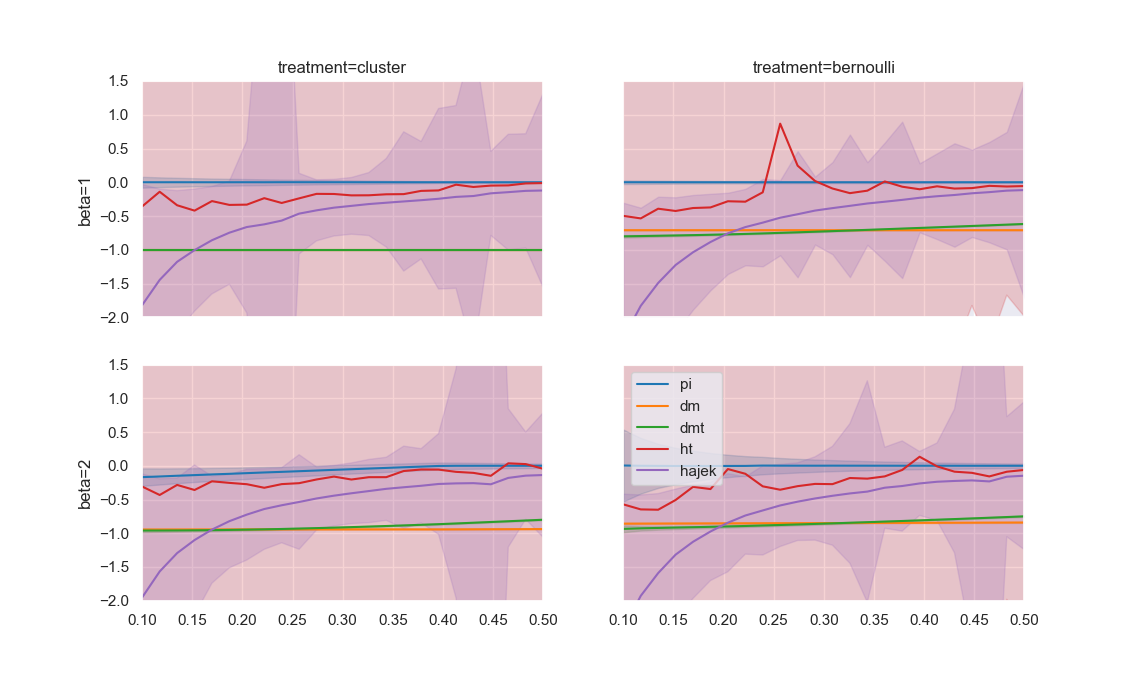
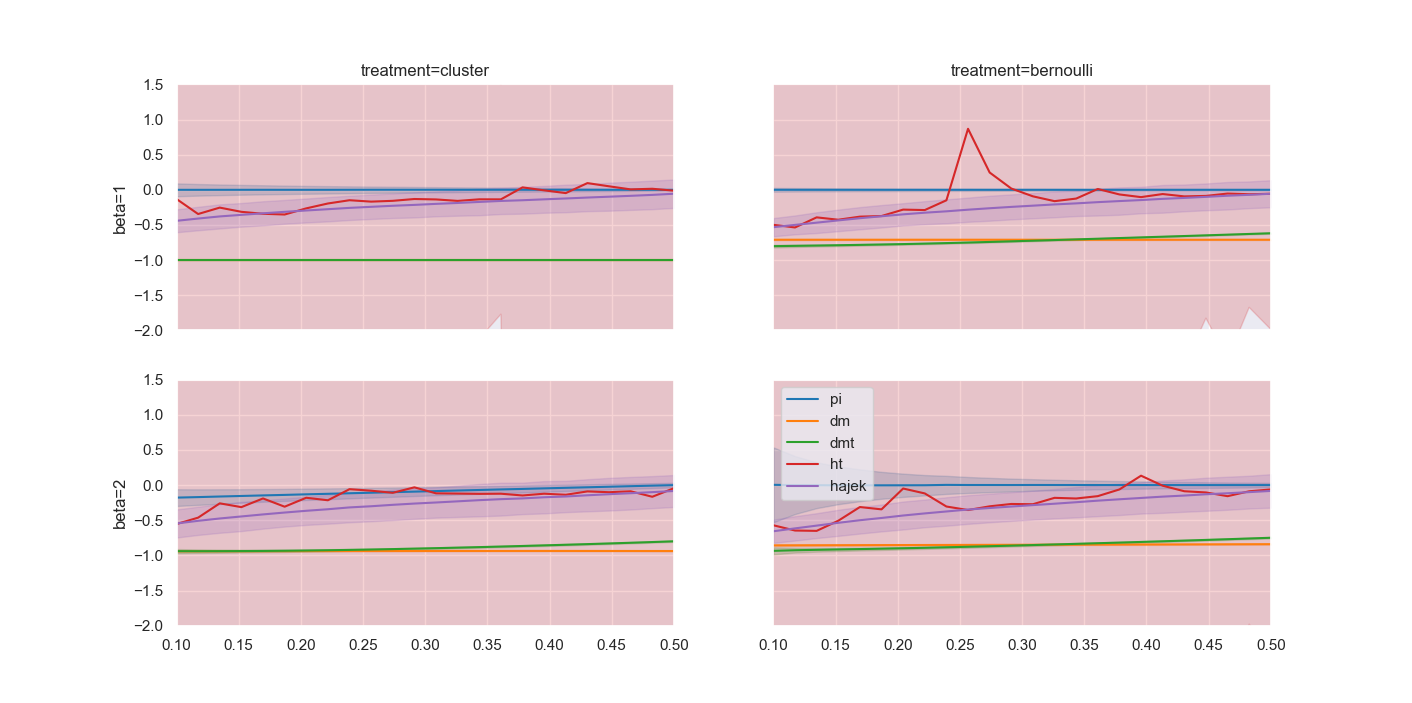
compare estimator figures

diff --git a/Neurips_Experiments/experiment_functions.py b/Neurips_Experiments/experiment_functions.py
@@ -3,7 +3,7 @@ from numpy.random import RandomState
 from scipy.special import binom
 import scipy
 
-rng = RandomState(1785931)
+rng = RandomState(19025)
 
 ######## Constructed Networks ########
 
@@ -224,8 +224,8 @@ def pi_estimate_tte_two_stage(Y,p,Q):
 def dm_estimate_tte(Z,Y):
     '''
     Returns TTE estimate from difference in means
-        Z = treatment assignments: (beta+1) x r x n
-        Y = potential outcomes: (beta+1) x r x n
+        Z = treatment assignments: r x n
+        Y = potential outcomes: r x n
     '''
     T,_,n = Z.shape
 
@@ -233,7 +233,7 @@ def dm_estimate_tte(Z,Y):
 
     DM_data = np.sum(Y*Z,axis=2)/np.maximum(num_treated,1)          # (beta+1) x r
     DM_data -= np.sum(Y*(1-Z),axis=2)/np.maximum(n-num_treated,1)  
-    return np.sum(DM_data[1:,:],axis=0)/T
+    return np.sum(DM_data,axis=0)/T
 
 
 def dm_threshold_estimate_tte(Z,Y,G,gamma):
@@ -262,7 +262,7 @@ def dm_threshold_estimate_tte(Z,Y,G,gamma):
 
     DM_data = np.sum(Y*sufficiently_treated,axis=2)/np.maximum(num_sufficiently_treated,1)          # (beta+1) x r
     DM_data -= np.sum(Y*sufficiently_control,axis=2)/np.maximum(num_sufficiently_control,1)  
-    return np.sum(DM_data[1:,:],axis=0)/T
+    return np.sum(DM_data,axis=0)/T
 
 def _neighborhood_cluster_sizes(N,Cl):
     '''
@@ -314,11 +314,14 @@ def ht_hajek_estimate_tte(Z,Y,G,Cl,p,q):
     prob_fully_treated = np.power(p/q,cd) * np.power(q,d)
     prob_fully_control = np.prod(1 - p/q*(1-np.power(1-q,ncs)),axis=1)
 
-    nhat = np.sum(Ni_fully_treated/prob_fully_treated, axis=1)
+    HT_data = (np.sum(Y * Ni_fully_treated/prob_fully_treated, axis=1) - np.sum(Y * Ni_fully_control/prob_fully_control, axis=1))/n
 
-    HT_data = np.sum(Y * Ni_fully_treated/prob_fully_treated, axis=1)
-    HT_data -= np.sum(Y * Ni_fully_control/prob_fully_control, axis=1)   
-    return (HT_data/n,HT_data/nhat)
+    nhat1 = np.sum(Ni_fully_treated/prob_fully_treated, axis=1)
+    nhat2 = np.sum(Ni_fully_control/prob_fully_control, axis=1)
+
+    Hajek_data = np.sum(Y * Ni_fully_treated/prob_fully_treated, axis=1)/nhat1
+    Hajek_data -= np.sum(Y * Ni_fully_control/prob_fully_control, axis=1)/nhat2  
+    return (HT_data,Hajek_data)
 
 ######## Utility Function for Computing Effect Sizes ########
 

diff --git a/Neurips_Experiments/run_compare_estimators_experiment.py b/Neurips_Experiments/run_compare_estimators_experiment.py
@@ -38,8 +38,8 @@ def estimate_two_stage(fY,G,Cl,n,p,q,r,beta,gamma):
         Yb = fY(Zb)
 
         tte_hat["pi_bernoulli"] = np.append(tte_hat["pi_bernoulli"],pi_estimate_tte_two_stage(Yb,p,P))
-        tte_hat["dm_bernoulli"] = np.append(tte_hat["dm_bernoulli"],dm_estimate_tte(Zb,Yb))
-        tte_hat["dmt_bernoulli"] = np.append(tte_hat["dmt_bernoulli"],dm_threshold_estimate_tte(Zb,Yb,G,gamma))
+        tte_hat["dm_bernoulli"] = np.append(tte_hat["dm_bernoulli"],dm_estimate_tte(Zb[1:,:,:],Yb[1:,:,:]))
+        tte_hat["dmt_bernoulli"] = np.append(tte_hat["dmt_bernoulli"],dm_threshold_estimate_tte(Zb[1:,:,:],Yb[1:,:,:],G,gamma))
         (ht_estimate,hajek_estimate) = ht_hajek_estimate_tte(Zb[-1,:,:],Yb[-1,:,:],G,Clb,p,P[-1])
         tte_hat["ht_bernoulli"] = np.append(tte_hat["ht_bernoulli"],ht_estimate)
         tte_hat["hajek_bernoulli"] = np.append(tte_hat["hajek_bernoulli"],hajek_estimate)
@@ -64,7 +64,7 @@ def run_experiment(G,Cls,fixed,varied,r,gamma):
         TTE = np.sum(fY(np.ones(n))-fY(np.zeros(n)))/n
 
         for nc,q in product(ncs,qs):
-            for (p,results) in Parallel(n_jobs=-1, verbose=10)(delayed(lambda p : estimate_two_stage(fY,G,Cls[nc],n,p,max(q,p),r,beta,gamma))(p) for p in np.linspace(0.1,0.5,24)):
+            for (p,results) in Parallel(n_jobs=-1, verbose=10)(delayed(lambda p : estimate_two_stage(fY,G,Cls[nc],n,p,max(q,p),r,beta,gamma))(p) for p in np.linspace(0.1,0.5,16)): #24
 
                 data["p"] += [p]*len(results)
                 if "beta" in varied: data["beta"] += [beta]*len(results)
@@ -76,8 +76,8 @@ def run_experiment(G,Cls,fixed,varied,r,gamma):
                     data["treatment"].append(treatment)
                     data["est"].append(est)
 
-                    mean = np.average(TTE_hat)
-                    variance = np.average((TTE_hat - mean)**2)
+                    mean = np.nanmean(TTE_hat)
+                    variance = np.nanmean((TTE_hat - mean)**2)
 
                     data["bias"].append(mean - TTE)
                     data["var"].append(variance)

diff --git a/Neurips_Experiments/compare_estimators_mse_plot.py b/Neurips_Experiments/compare_estimators_mse_plot.py
@@ -5,13 +5,14 @@ import seaborn as sns
 import matplotlib.pyplot as plt
 
 def plot(ax,df,color,est):
-    ax.plot(df['p'], df['bias'], color=color, label=est)
-    if est != "ht":
-        ax.fill_between(df['p'], df['bias']-df['sd'], df['bias']+df['sd'], color=color, alpha=0.2)
+    ax.plot(df['p'], df['mse'], color=color, label=est)
+    # if est != "ht":
+    #     ax.fill_between(df['p'], df['bias']-df['sd'], df['bias']+df['sd'], color=color, alpha=0.2)
 
 def draw_plots(data, col_var, row_var, outfile):
     df = pd.DataFrame(data)
-    df['sd'] = (df['var'])**(1/2)
+
+    df['mse'] = df['bias']**2 + df['var']
 
     sns.set_theme()
 
@@ -33,12 +34,12 @@ def draw_plots(data, col_var, row_var, outfile):
 
     f,ax = plt.subplots(nrow,ncol, sharex=True, sharey=True)
     plt.setp(ax,xlim=(min(df['p']),max(df['p'])))
-    plt.setp(ax,ylim=(-10,10))
+    plt.setp(ax,ylim=(-0.02,0.85))
 
     ests = df["est"].unique()
 
     for e,est in enumerate(ests):
-        #if est == "ht": continue
+        if est == "ht": continue
 
         if ncol == 1:
             plot(ax,df[df["est"] == est],colors[e],est)

diff --git a/Neurips_Experiments/mse_plot.py b/Neurips_Experiments/mse_plot.py
@@ -29,7 +29,7 @@ def plot(data, col_var, row_var, outfile):
 
     f,ax = plt.subplots(nrow,ncol, sharex=True, sharey=True)
     plt.setp(ax, xlim=(min(df['q']),1))
-    plt.setp(ax, ylim=(0,2))
+    plt.setp(ax, ylim=(0,1))
 
     if ncol == 1:
         ax.fill_between(df['q'], 0, df['bias']**2, color=colors[0], alpha=0.15)

diff --git a/Neurips_Experiments/SBM/sbm_experiment.py b/Neurips_Experiments/SBM/sbm_experiment.py
@@ -23,7 +23,7 @@ G = sbm(n,k,pii,pij)
 betas = [1,2,3]           # model degree
 p = 0.2                   # treatment budget
 qs = np.linspace(p,1,24)
-r = 5000                  # number of replications
+r = 10000                 # number of replications
 
 ##############################################
 
